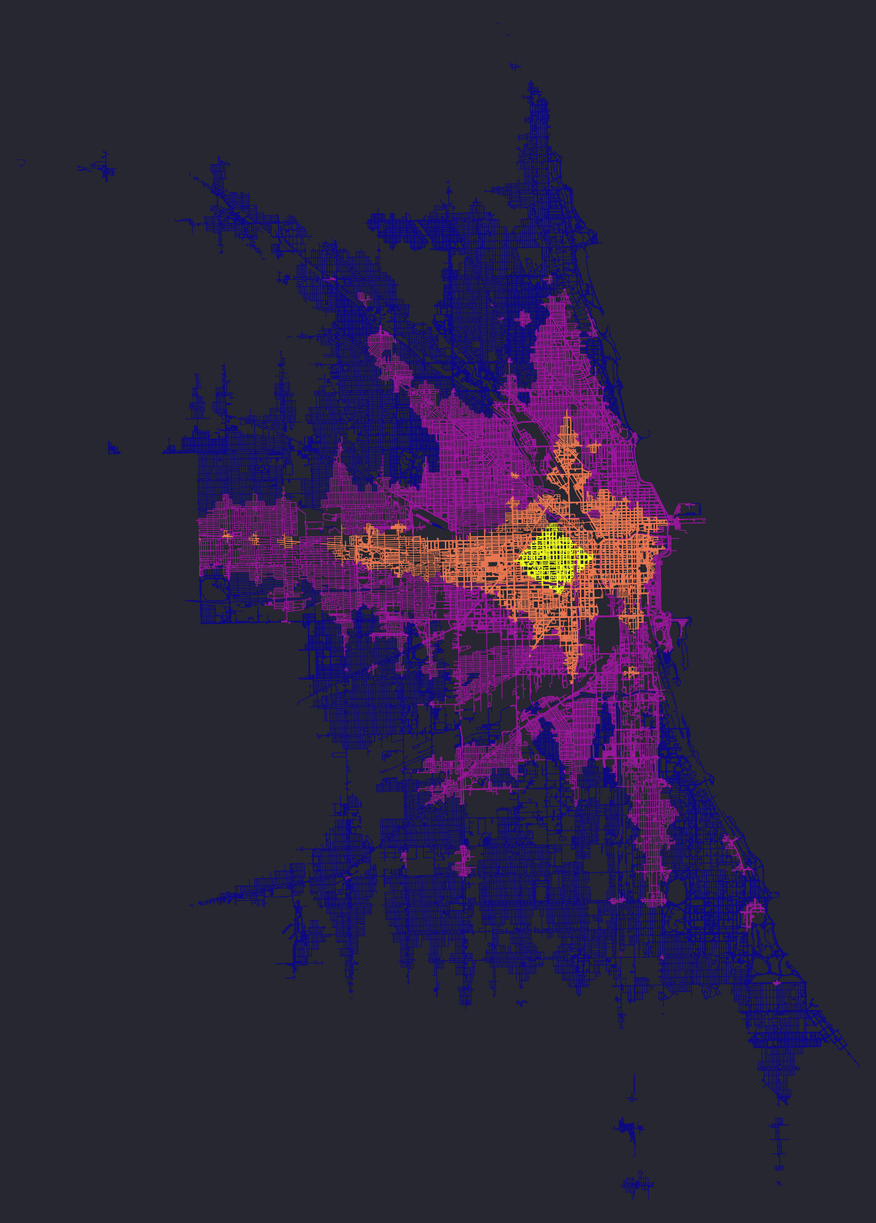
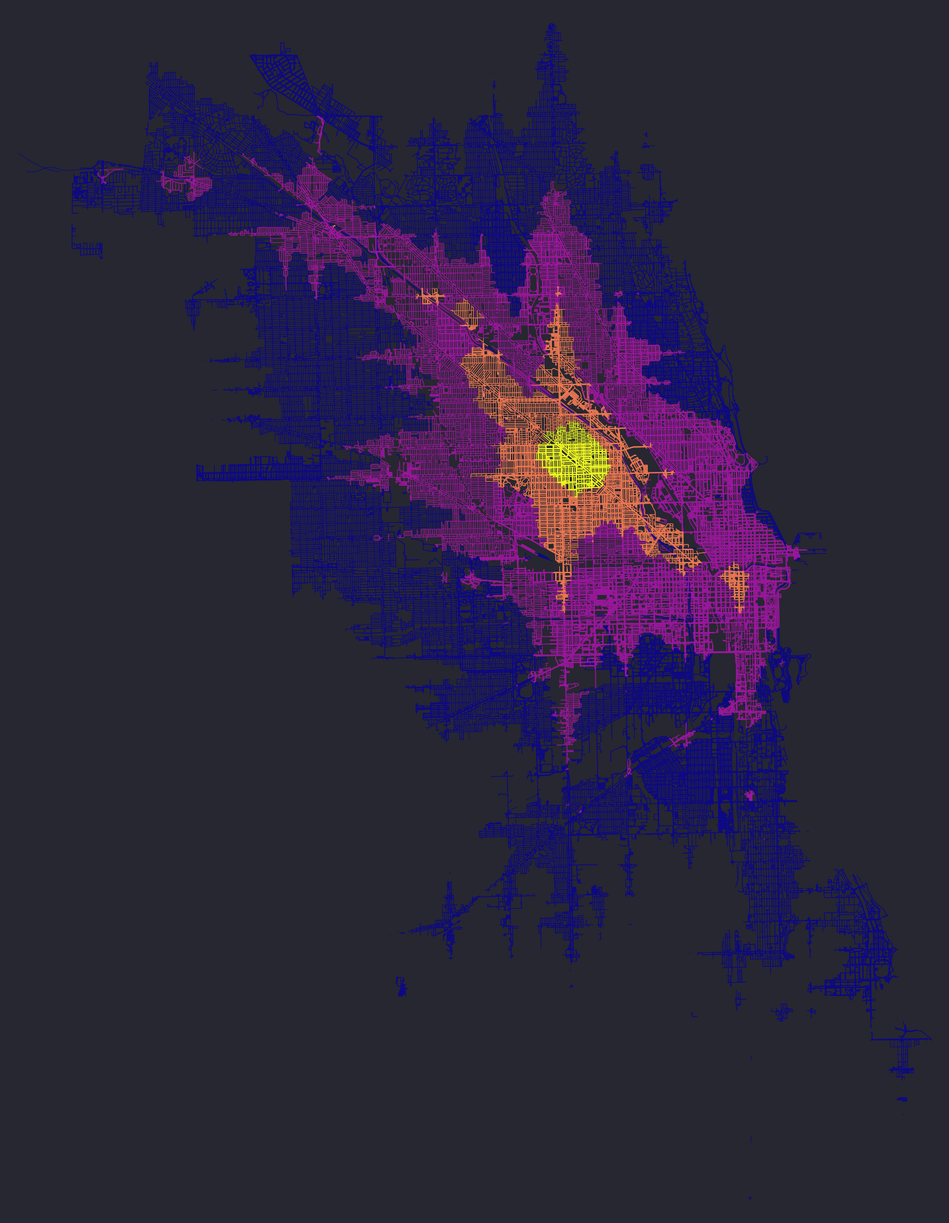
updated text

diff --git a/src/text.py b/src/text.py
@@ -1,50 +1,50 @@
 TEXT = {
     "Frequency is Freedom": [
         """
-“Frequency is freedom” is a phrase coined by the urban planner Jarrett Walker that I learned about from the excellent book [Better Buses Better Cities](https://www.goodreads.com/en/book/show/44451608-better-buses-better-cities), and it has helped me articulate why I felt I had a greater sense of freedom when I have lived and traveled abroad. Frequent transit service allowed me to go more places, to go places whenever I wanted to, and to still go places even when I was running late or forgot something (which seems to happen quite a bit). I spent less time waiting, so I got moving sooner and moved faster once I was on the go.
+“Frequency is freedom” is a phrase I learned when reading [Better Buses Better Cities](https://www.goodreads.com/en/book/show/44451608-better-buses-better-cities), and it has helped me articulate why I’ve felt a greater sense of freedom when I have lived and traveled abroad. Frequent transit service allowed me to go more places, to go places whenever I wanted to, and to still go places even when I was running late or forgot something (which seems to happen quite a bit). I spent less time waiting, so I got moving sooner and moved faster once I was on the go. I miss those freedoms, but I used to have those same freedoms here at home in Chicago.
         """,
         """
-I miss those freedoms, but I used to have those same freedoms here at home in Chicago. When ridership vanished at the beginning of the pandemic the CTA was forced to cut service¹. These days, buses and trains are still running less often as the [CTA struggles to hire enough bus drivers](https://blockclubchicago.org/2022/07/14/cta-leaders-vow-to-fix-unreliable-service-with-more-hiring-improved-train-and-bus-tracking/). My own commute takes twice as long as it used to, which makes going into the office more of a pain. I miss the community of the office, but when I do make the trek I find it mostly empty because [my coworkers also all hate waiting forever for the bus or train](https://www.wsj.com/articles/dreaded-commute-to-the-city-is-keeping-offices-mostly-empty-11653989581).
+When ridership vanished at the beginning of the pandemic, the CTA was forced to cut service. Ridership plummetted from “1.4 million riders per day to a low of 225,000 riders per day”, [fare revenue dried up](https://www.chicagotribune.com/business/ct-biz-transportation-revenue-down-drivers-public-transit-20210325-u4yruab2gfei7myevume7kurim-story.html), and [the CTA ran fewer trains and buses](https://www.chicagotribune.com/business/ct-biz-cta-train-bus-schedule-wait-20211209-dd5aketifnefhnrtw6lsucleeq-story.html).¹ These days, as [the CTA struggles to hire enough bus drivers](https://blockclubchicago.org/2022/07/14/cta-leaders-vow-to-fix-unreliable-service-with-more-hiring-improved-train-and-bus-tracking/), service still runs less than scheduled. My own commute takes twice as long as it used to, which makes going into the office more of a pain. I miss the community of the office, but when I make the trek in I find it mostly empty because [my coworkers also all hate waiting forever for the bus or train](https://www.wsj.com/articles/dreaded-commute-to-the-city-is-keeping-offices-mostly-empty-11653989581).
         """,
     ],
 
     "How Often Does the Bus Come?": [
         """
-Like nearly all transit agencies, the CTA publishes scheduled and real-time service data. While anyone who lives in the city knows that the bus never runs on schedule, we can look at this data to see the service the CTA intends to run. Below is scheduled weekday service from the week of August 15th of this year for two bus stops near my apartment. (I’ve filtered this data to only show service between 6 am and 10 pm, but the CTA does run buses and trains all night on many routes, including the 66 bus shown here.)
+Like nearly all transit agencies, the CTA publishes scheduled and real-time service data. While anyone who lives in the city knows that the bus never runs on schedule, we can look at this data to see the service the CTA intends to run. 
+        """,
+        """
+Below is scheduled weekday service from the week of August 15th, 2022 for two bus stops near my apartment. (I’ve filtered this data to only show service between 6 am and 10 pm, but the CTA does run buses and trains all night on many routes, including the 66 bus shown here.)
         """,
     ],
 
     "How Often Does the Bus Come? (II)": [
         """
-These numbers feel high to me. As expected, both buses have peaks at rush hour, but an average of 9 buses per hour for the Chicago Ave 66 bus feels high to me. That’s one bus nearly every 6 and a half minutes. I wish the bus ran that often, because how often the bus comes determines how long I’m stuck waiting for it.
-        """,
+I was shocked to see these charts. The shapes make sense to me (both buses have peaks at rush hour), but an average of 9 buses per hour for the Chicago Ave 66 bus is not at all what I experience. That’s one bus nearly every 6 and half minutes. I wish the bus ran that often, because how often the bus comes determines how long I’m stuck waiting for it.        """,
     ],
 
     "How Long Do You Wait For The Bus?": [
         """
-Many things in the world of transportation are counterintuitive, such as how long you wait for the bus. If a bus arrives on average every ten minutes, you would be forgiven for thinking that the average time someone spends waiting for the bus is half that, only five minutes. This would be the case if the bus arrived exactly every ten minutes, like clockwork, but it doesn’t. It arrives _on average_ every ten minutes, sometime sooner and sometimes later. And, sadly and surprisingly, the average time someone spends waiting for a bus like that is ten minutes.³
+Many things in the world of transportation are counterintuitive, such as how long you can expect to wait for the bus. If a bus arrives on average every ten minutes, you would be forgiven for thinking that the average time someone spends waiting for the bus is half that — five minutes. This would be the case _if_, and only if, the bus arrived like clockwork, every ten minutes. But it doesn’t: it arrives _on average_ every ten minutes, sometimes sooner, sometimes later. Surprisingly, the average time someone spends waiting for a bus like that is ten minutes.³
         """,
         """
-To understand why, think about a university that advertises small class sizes. Tallying each class, the average may indeed be small, say thirty students. But not every class is that small. A few big freshman seminars may have hundreds of students. And since more students take those larger classes, when we tally each student, the average number of students in their classes will be much higher.⁴
+To understand why, think about a university that advertises small class sizes. Tallying each class, the average may indeed be small, say thirty students. But not every class is that small. A few big freshman seminars may have hundreds of students.
         """,
         """
-When choosing a student at random, you are more likely to get a student in a larger class. When a bus arrives at a certain frequency – sometimes shorter, sometimes longer – you are more likely to arrive at the stop during a longer period. This same paradox explains why [your friends have more friends than you](https://towardsdatascience.com/the-inspection-paradox-is-everywhere-2ef1c2e9d709#070e). 
+Since more students take those larger classes, the average number of students in their classes is actually much higher, because when choosing a student at random, you are more likely to get a student in a larger class. So, when a bus arrives at a certain frequency – sometimes shorter, sometimes longer – you are more likely to arrive at the stop during a longer period. This same paradox explains why [your friends have more friends than you](https://towardsdatascience.com/the-inspection-paradox-is-everywhere-2ef1c2e9d709#070e).
         """,
     ],
 
     "One Day of Simulated Bus Service": [
         """
-To test this, we can simulate a bus and measure how long simulated people have to wait for it. Our simulated bus runs 24 hours a day and the little simulated people show up at all times. (They work inside a computer and never get any time off.)
+Let’s simulate a bus and measure how long simulated people have to wait for it. Our simulated bus runs 24 hours a day and the little simulated people show up at all times (they work inside a computer and never get any time off). The chart zooms in to look at people and buses arriving at a stop between 10 a.m. and noon.
         """,
 ],
 
     "How Far Can I Go?": [
         """
-How often the bus comes determines how far it can take me. While all buses that are at the [“mercy of the street”](https://www.wbez.org/stories/why-buses-arrive-in-bunches/4e768974-dd32-47f7-97e8-37951507e43d) will eventually bunch, buses that run more frequently bunch less.⁵ So, a bus that comes more often is more likely to come on time. Also, research from the US Department of Transportation has found that “a standard bus is able to remove 31 cars from the road”, so buses that come more often will sit in less traffic.⁶ But bunching and congestion aside, when a bus comes more often I spend less time waiting for it. 
-        """,
+How often the bus comes determines how far it can take me. While all buses that are at the [“mercy of the street”](https://www.wbez.org/stories/why-buses-arrive-in-bunches/4e768974-dd32-47f7-97e8-37951507e43d) will eventually bunch, buses that run more frequently bunch less.⁵ So, a bus that comes more often is more likely to come on time. (Bus bunching is when fast buses catch up to slow buses and, for a while, they travel together in a bunch. Riders wait and wait, no buses show, no buses show, and then several arrive at once.) Also, research from the US Department of Transportation has found that “a standard bus is able to remove 31 cars from the road”, so buses that come more often will sit in less traffic.⁶ But bunching and congestion aside, when a bus comes more often I spend less time waiting for it.        """,
         """
-I want to use the CTA’s own data to measure how far I can go in a certain amount of time. To do that, I first need to map everywhere I can walk to. What you see below is a map of everywhere I can walk within an hour from my apartment, which is near the intersection of Chicago and Damen.
-        """,
+I want to use the CTA’s own data to measure how far I can go in a certain amount of time. To do that, I first need to map everywhere I can walk. What you see below is a map of everywhere I can walk within an hour of my apartment, which is near the intersection of Chicago and Damen.        """,
     ],
 
     "Geography": [
@@ -53,39 +53,39 @@ The map above shows all walking routes surrounding my apartment. I find it quite
         """,
     ],
 
-#     "Generate Your Own Walking Map": [
-#         """
-# Enter an address below to generate a map of everywhere you can walk from that spot. (This will work for any address, but it'll take a few minutes as it'll have to download the map surrounding that address first.)
-#         """,
-#     ],
-
     "How Far Can I Go with Public Transit?": [
         """
-Now that we can walk, let’s walk to the bus, or, more honestly, let’s wait for the bus. From CTA schedules and our understanding of average wait times from above, we know how long we can expect to wait at each transit stop. We can then trace how far we can get on foot and public transit, including transfers, within a given amount of time. The maps below start from my apartment and consider weekday service from the week of August 15th.
+Now that we can walk, let’s walk to the bus, or, more realistically, let’s wait for the bus. From CTA schedules and our understanding of average wait times, we know how long we can expect to wait at each transit stop. We can then trace how far we can get on foot and public transit, including transfers, within a given amount of time. The maps below start from my apartment and consider weekday service from the week of August 15th.
         """,
         """
-This is my Chicago: the city that the CTA makes accessible to me. I can get as east as the lake and as west as city limits. My reach northwest is expectedly defined by the blue line. North and south, I am confined by the limits of the bus, which peak in purple and blue. Since I live on the near west side, I have to go downtown before I can catch a train north or south. Doing that burns precious time. A friend of mine who lives in Ravenswood was surprised to see that his place isn’t on this map, but I wasn’t. I know to bike to his place for dinner, because the bus would take over an hour.
+This is my Chicago: the city the CTA makes accessible to me. I can get as east as the lake and as west as city limits. My reach northwest is expectedly defined by the blue line. North and south, I am confined by the limits of the bus, which peak in purple and blue. Since I live on the near west side, I have to go downtown before I can catch a train north or south. Doing that burns precious time. A friend of mine who lives in Ravenswood was surprised to see that his place isn’t on this map, but I wasn’t. I know to bike to his place for dinner, because the bus would take over an hour.
         """,
     ],
 
-    "More Buses Can Take You More Places": [
+    "More Buses Take You More Places": [
         """
-Truthfully, that map above is aspirational. It’s based off of the CTA’s published schedules, but the CTA has been running reduced service, sometimes as bad as running [half as many trains as the schedule says](https://blockclubchicago.org/2022/06/23/ghost-trains-and-buses-packed-platforms-35-alderpeople-want-city-council-hearing-on-deteriorating-cta-service/). That means waiting even longer and reaching even less.
+Truthfully, the map above is aspirational. It’s based off of the CTA’s published schedules, but the CTA has been running reduced service, sometimes as bad as running [half as many trains as the schedule says](https://blockclubchicago.org/2022/06/23/ghost-trains-and-buses-packed-platforms-35-alderpeople-want-city-council-hearing-on-deteriorating-cta-service/). That means waiting even longer and reaching even less.
         """,
         """
-When public transit runs less often, our world gets smaller. Below are three trips at increasing rates of service. The leftmost maps plot 50% reduced service. Next to those, we can see how far I should be able to get from my apartment given the published schedules. And after that, we see the Chicago I could have access to if buses and trains ran twice and three times as often as the current schedules.
+When public transit runs less often, our world gets smaller. Below are three trips at increasing rates of service. The leftmost maps plot 50% reduced service. Next to those, we can see how far I should be able to get given the published schedules. And after that, we see the Chicago I could access if buses and trains ran twice and three times as often as the current schedules.
         """,
         """
-These maps show how reduced service confines me to my neighborhood. I live a 15-minute walk to the closes L line stop. When trains or buses run less than every 15 minutes, a 30-minute trip with public transit takes me barely further than just walking for 30 minutes.
+These maps show how reduced service confines me to my neighborhood. I live a 15-minute walk to the closest L stop. When trains or buses run less than every 15 minutes, a 30-minute trip with public transit takes me barely further than just walking for 30 minutes.
         """,
         """
-But note how simple it would be to unlock more of the city. Trips at three times scheduled service don't offer that much more than running everything twice as often. We don't need a million more buses and trains, just twice as many! That may sound like a lot to ask, but increased ridership brings increased revenue from fares, and research from "157 US cities [has found] that increasing the frequency of service on current routes was about 20 percent more effective at increasing ridership than adding more routes."⁷ And I've never experienced true freedom like living somewhere where there's no need to check a bus or train schedule. Whenever you want to go somewhere, you simply get up and go.       
+Note how simple it would be to unlock more of the city. Tripling scheduled service doesn’t extend our reach much further than just doubling it. I’m not asking for a million more buses and trains, just twice as many! I don’t view that as too much to ask, but rather as an investment in the CTA’s resiliency.
         """,
+        """
+More transit riders means more fare revenue, and the best way to increase ridership is to run more buses and trains. Research from "157 US cities [has found] that increasing the frequency of service on current routes was about 20 percent more effective at increasing ridership than adding more routes."⁷ 
+        """,
+        """
+I've never experienced true freedom like living somewhere where there's no need to check a bus schedule. Whenever you want to go somewhere, you simply get up and go. I want all Chicagoans to live that free.
+        """
     ],
 
     "Better Bus Service": [
         """
-The CTA is [hurting financially because of reduced ridership](https://experience.arcgis.com/experience/037eb95a8daa44f488e48d9afc09c38e), making it harder to run routes as often as advertised. This creates a vicious cycle, as worse service forces would-be riders to find other options. Many people think that those who are dependent upon the bus will take the bus no matter what because they have no other choice. Even the current head of the CTA, Dorval Carter has said, “The people who have to ride the CTA will ride the CTA.”⁷
+The CTA is [hurting financially because of reduced ridership](https://experience.arcgis.com/experience/037eb95a8daa44f488e48d9afc09c38e), making it harder to run routes as often as advertised. This creates a vicious cycle, as worse service forces would-be riders to find other options. Many people think that those who are dependent upon the bus will take the bus no matter what because they have no other choice. Even the current head of the CTA, Dorval J. Carter has said, “The people who have to ride the CTA will ride the CTA.”⁷
         """,
         """
 Those familiar with the transit geography of Chicago may notice in the maps above that it's not the L train that unlocks the city for me – it's the bus. The bus is often stigmatized as only for people who cannot afford a car, but that doesn’t measure up against reality. Research across the US has confirmed that bus ridership levels are a result of service quality.⁷ People choose the bus when they learn they can rely upon the bus. When they can’t, they – even people without a car – figure something else out.

diff --git a/src/isochrones.py b/src/isochrones.py
@@ -130,8 +130,8 @@ class TransitIsochrone:
     def make_isochrone(self, starting_lat_lon, 
                        trip_times=None, freq_multipliers=None, 
                        filepath=None, cmap="plasma", color=None, bgcolor="#262730",
-                       use_city_bounds=False,
-                       ax=None):
+                       use_city_bounds=False, bbox=None, ax=None,
+                       color_start=0, color_stop=1):
         """A Walking and Transit Isochrone!!"""
         if trip_times is None:
             trip_times = [15, 30, 45, 60]
@@ -162,7 +162,6 @@ class TransitIsochrone:
 
         else:
             if len(freq_multipliers) == 1:
-                print("Coloring by Trip Time")
                 # Color Subgraphs by Trip Time
                 freq = freq_multipliers[0]
 
@@ -170,16 +169,14 @@ class TransitIsochrone:
                 num_colors = len(trip_times)
                 iso_colors = ox.plot.get_colors(num_colors,
                     cmap=cmap, 
-                    start=0, 
+                    # start=0,
                     return_hex=True)
 
                 for trip_time, iso_clr in zip(trip_times, iso_colors):
-                    print(trip_time, freq, iso_clr)
                     subgraph = isochrones[trip_time][freq]
                     edge_colors = self.assign_edge_colors(subgraph, edge_colors, iso_clr)
 
             elif len(trip_times) == 1:
-                print("Coloring by Frequency")
                 # Color Subgraph by Frequency
                 trip_time = trip_times[0]
 
@@ -188,12 +185,13 @@ class TransitIsochrone:
                 iso_colors = ox.plot.get_colors(num_colors,
                     cmap=cmap,
                     # start=max(freq_multipliers),
-                    start=0, 
-                    stop=max(freq_multipliers),
+                    # start=0, 
+                    # stop=max(freq_multipliers),
+                    start=color_start,
+                    stop=color_stop,
                     return_hex=True)
 
                 for freq, iso_clr in zip(freq_multipliers, iso_colors):
-                    print(trip_time, freq, iso_clr)
                     subgraph = isochrones[trip_time][freq]
                     edge_colors = self.assign_edge_colors(subgraph, edge_colors, iso_clr)
 
@@ -205,13 +203,12 @@ class TransitIsochrone:
             filepath = "plots/user_transit_isochrone.png"
 
         if use_city_bounds:
-            north = max([node[1]["y"] for node in self.citywide_graph.nodes(data=True)]) 
-            south = min([node[1]["y"] for node in self.citywide_graph.nodes(data=True)]) 
-            east = max([node[1]["x"] for node in self.citywide_graph.nodes(data=True)]) 
-            west = min([node[1]["x"] for node in self.citywide_graph.nodes(data=True)]) 
-            bbox = (north, south, east, west)
-        else:
-            bbox=None
+            # north = max([node[1]["y"] for node in self.citywide_graph.nodes(data=True)]) 
+            # south = min([node[1]["y"] for node in self.citywide_graph.nodes(data=True)]) 
+            # east = max([node[1]["x"] for node in self.citywide_graph.nodes(data=True)]) 
+            # west = min([node[1]["x"] for node in self.citywide_graph.nodes(data=True)]) 
+            # bbox = (north, south, east, west)
+            bbox = self.get_bbox_from_graph(self.citywide_graph)
 
         nc = [0 for _ in graph.nodes()]
         ns = [0 for _ in graph.nodes()]
@@ -220,10 +217,11 @@ class TransitIsochrone:
         # bgcolor = "#262730"
 
         if ax is None:
-            fig, ax = ox.plot_graph(graph, 
+            _, ax = ox.plot_graph(graph, 
                 node_color=nc, edge_color=ec, node_size=ns,
                 node_alpha=0.8, node_zorder=2, bgcolor=bgcolor, edge_linewidth=0.2,
-                show=False, save=True, filepath=filepath, dpi=300, bbox=None)
+                show=False, save=True, filepath=filepath, dpi=300, bbox=bbox)
+            bbox = self.get_bbox_from_plot(ax)
         else:
             city = ox.geocode_to_gdf('Chicago, Illinois')
             x,y = city["geometry"].iloc[0].exterior.xy
@@ -235,12 +233,13 @@ class TransitIsochrone:
                 show=False, save=False, filepath=filepath, dpi=300, bbox=bbox)
 
             ax.set_facecolor(bgcolor)
-            ax.set_axis_on()        
-            
+            ax.set_axis_on() 
+        
+        return bbox
 
 
     def assign_edge_colors(self, subgraph, edge_colors, color):
-        print(f"Subgraph has {len(subgraph.nodes)} nodes and {len(subgraph.edges)} edges.")
+        # print(f"Subgraph has {len(subgraph.nodes)} nodes and {len(subgraph.edges)} edges.")
         for edge_data in subgraph.edges(data=True):
             edge = (edge_data[0], edge_data[1])
             if edge_data[2]["display"]:
@@ -263,6 +262,24 @@ class TransitIsochrone:
             distance='travel_time')
         subgraph.remove_edges_from([edge for edge in self.transit_graph.edges])
         return subgraph
+
+
+    def get_bbox_from_graph(self, graph):
+        north = max([node[1]["y"] for node in graph.nodes(data=True)]) 
+        south = min([node[1]["y"] for node in graph.nodes(data=True)]) 
+        east = max([node[1]["x"] for node in graph.nodes(data=True)]) 
+        west = min([node[1]["x"] for node in graph.nodes(data=True)]) 
+        bbox = (north, south, east, west)
+        return bbox
+
+
+    def get_bbox_from_plot(self, ax):
+        ylim, xlim = ax.get_ylim(), ax.get_xlim()
+        north, south = ylim[1], ylim[0]
+        east, west = xlim[1], xlim[0]
+        bbox = (north, south, east, west)
+        return bbox
+    
 
         # self.missing_stops = []
         # self.start_positions = {starting_node: trip_time}

diff --git a/create_maps_for_article.py b/create_maps_for_article.py
@@ -55,12 +55,47 @@ def frequency_isochrones_from_my_apartment(trip_time=30):
         plt.savefig(filepath, dpi=300, facecolor=bgcolor)
 
 
+@timer_func
+def thirty_minute_frequency_maps():
+    city = "Chicago, Illinois"
+    my_lat_lon = (41.898010150000005, -87.67613740698785)
+    transit_isochrone = TransitIsochrone(DATA_DIR, city)
+
+    trip_times = [30]
+    freq_multipliers = [1, 2]
+    filepath = "plots/thirty_minute_enhanced_service.png"
+    bbox = transit_isochrone.make_isochrone(my_lat_lon, 
+        trip_times=trip_times, 
+        freq_multipliers=freq_multipliers,
+        filepath=filepath,
+        color_start=0.75,
+        color_stop=0.5,
+        # color_start=0.9,
+        # color_stop=0.7,
+        cmap="GnBu")
+
+    freq_multipliers = [0.5, 1]
+    filepath = "plots/thirty_minute_reduced_service.png"
+    _ = transit_isochrone.make_isochrone(my_lat_lon, 
+        trip_times=trip_times, 
+        freq_multipliers=freq_multipliers,
+        filepath=filepath,
+        color_start=0.5,
+        color_stop=0.25,
+        # color_start=0.7,
+        # color_stop=0.5,
+        cmap="GnBu",
+        bbox=bbox)
+
+
+
 if __name__ == "__main__":
-    walking_isochrone_from_my_apartment()
-    transit_isochrone_from_my_apartment()
-    frequency_isochrones_from_my_apartment(trip_time=30)
-    frequency_isochrones_from_my_apartment(trip_time=45)
-    frequency_isochrones_from_my_apartment(trip_time=60)
+    # walking_isochrone_from_my_apartment()
+    # transit_isochrone_from_my_apartment()
+    # frequency_isochrones_from_my_apartment(trip_time=30)
+    # frequency_isochrones_from_my_apartment(trip_time=45)
+    # frequency_isochrones_from_my_apartment(trip_time=60)
+    thirty_minute_frequency_maps()
 
 
 

diff --git a/app.py b/app.py
@@ -78,8 +78,26 @@ if transit_address:
             st.image(filepath, caption=caption)
 
 
-lg.write_text("More Buses Can Take You More Places")
+lg.write_text("More Buses Take You More Places")
 st.write("")
+# st.markdown("###### Thirty Minute Trips")
+# col1, col2 = st.columns(2)
+# thirty_min_reduced = "plots/thirty_minute_reduced_service.png"
+# caption = """
+# How far the schedule says I can go and an estimate of how far I can actually
+# go from my apartment in thirty minutes.
+# """
+# col1.image(thirty_min_reduced, caption=caption)
+# thirty_min_enhanced = "plots/thirty_minute_enhanced_service.png"
+# caption = """
+# How far the schedule says I can go and an estimate of how far I could go if
+# service ran twice as often in thirty minutes.
+# """
+# col2.image(thirty_min_enhanced, caption=caption)
+
+
+
+
 st.markdown("###### Thirty Minute Trips")
 frequency_isochrone = "plots/frequency_isochrone_30_min_trips.png"
 caption = """
